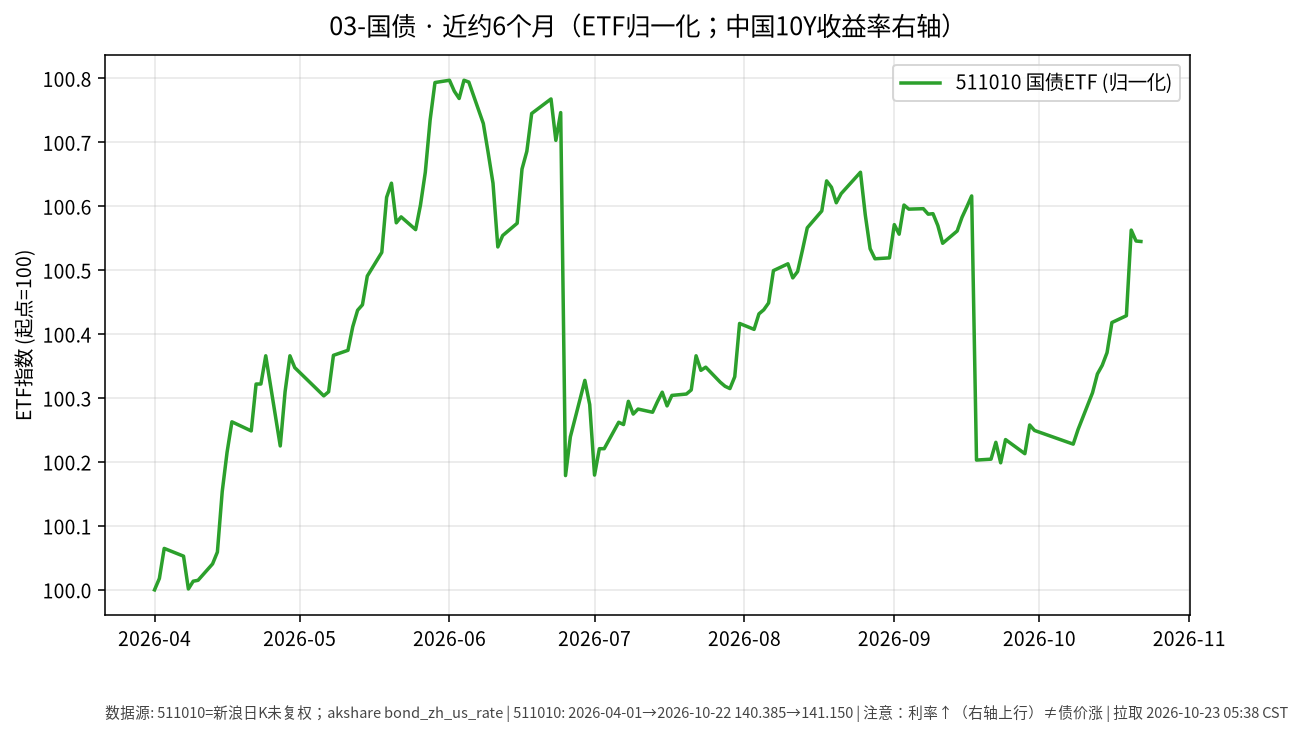
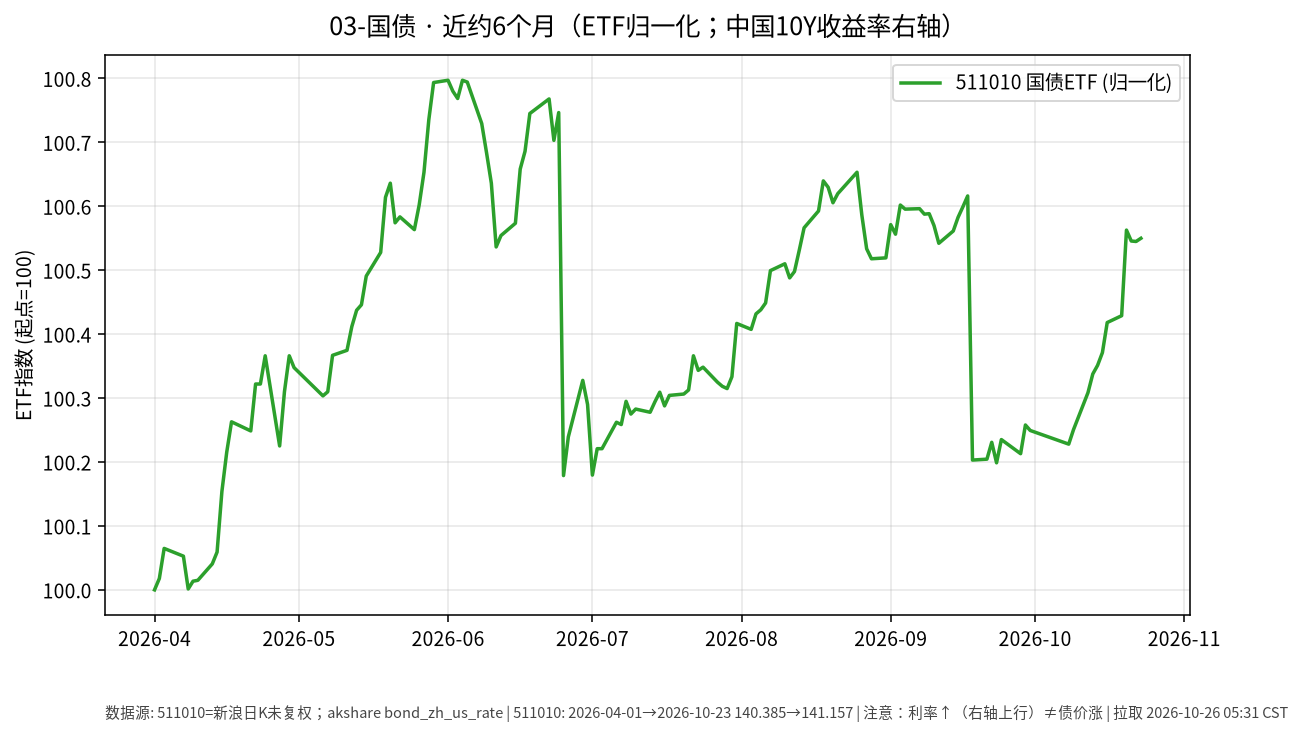
docs: 五门类投资日报 2026-10-26

diff --git a/01-黄金/日报/2026-10-26.md b/01-黄金/日报/2026-10-26.md
@@ -1,0 +1,30 @@
+# 黄金 · 日报 2026-10-26
+
+## 市场状态
+- **报告日**：2026-10-26（周一，Asia/Shanghai 盘前例程）
+- **数据截止交易日**：美股/GLD **2026-10-23**；A 股/沪金 **2026-10-23**（周五；10-24/25 为周末，周一盘前取上一交易日）。
+- GLD 收盘 **366.61**，较前一交易日 **-0.65%**（历史至 10-22 为 yfinance；10-23 收盘由新浪美股即时行情 `gb_gld` 补齐）。
+- 沪金 AU9999：**2026-10-23** 收盘 **864.00** 元/克（**-1.85%**）；黄金 ETF 518880 收 **8.199**（**-1.93%**）。
+
+## 关键数据
+| 标的 | 最近收盘日 | 收盘 | 日涨跌 | 近约6个月（归一起点日） | 区间涨跌 |
+|------|------------|------|--------|-------------------------|----------|
+| GLD | 2026-10-23 | 366.61 | -0.65% | 2026-04-23→2026-10-23 | -14.95% |
+| 518880 黄金ETF | 2026-10-23 | 8.199 | -1.93% | 2026-04-23→2026-10-23 | -17.18% |
+| AU9999（沪金） | 2026-10-23 | 864.00 | -1.85% | 2026-04-23→2026-10-23 | -16.72% |
+
+![近6个月走势](./charts/01-黄金-6m.png)
+
+## 简要解读
+- 美元计价黄金 ETF（GLD）在 **2026-10-23** 继续回落（约 **-0.65%**），境内 518880、沪金 AU9999 同日下行幅度更大（约 **-1.9%** 量级）；近约半年归一后约 **-15.0%～-17.2%**。
+- 价格变动同时受美元、实际利率与风险情绪影响；本页只描述已发生报价，不推断下一步方向。
+
+## 关注点与风险
+- 汇率：境内投资者若以人民币计量，还需叠加美元兑人民币变动，账面涨跌可能与 GLD 美元涨跌不一致。
+- 波动：黄金阶段性回撤后波动仍可能放大；ETF 净值/溢价、交易时段与现货不完全同步。
+- 数据完整性：GLD 完整 Yahoo 日 K 当日被限流，10-23 收盘用新浪美股行情补点；518880 与 SGE Au99.99 为完整日 K。图中三条归一曲线均已叠加。
+
+## 来源与时间
+- GLD：yfinance 历史（至 2026-10-22）+ 新浪 hq `gb_gld`（2026-10-23 收盘 366.61）；拉取约 2026-10-26 05:32 Asia/Shanghai
+- 518880：新浪日 K；AU9999：上海金交所 Dailyhq
+- 图表：Python matplotlib，收盘价归一到起点=100（图窗自 2026-04-01 起）

diff --git a/03-国债/日报/2026-10-26.md b/03-国债/日报/2026-10-26.md
@@ -1,0 +1,29 @@
+# 国债 · 日报 2026-10-26
+
+## 市场状态
+- **报告日**：2026-10-26；**数据截止交易日**：**2026-10-23**。
+- 国债 ETF 511010 收 **141.157**，日涨跌 **+0.005%**（近乎持平）。
+- 中债国债收益率曲线 **10 年期** 2026-10-23 报 **1.6400%**，较上日约 **-0.14 BP**（中国债券信息网公开表；财政部展示页同日约 1.64%、比上日约 -0.14BP）。
+- **提醒**：利率上行（曲线抬升）通常对应既有国债价格承压；图中 ETF 净值涨 ≠ 收益率涨。**利率↑线↑≠债价涨**。
+
+## 关键数据
+| 标的 | 收盘日 | 收盘/收益率 | 日变化 | 约6个月 | 区间 |
+|------|--------|-------------|--------|---------|------|
+| 511010 | 2026-10-23 | 141.157 | +0.005% | 2026-04-23→2026-10-23 | +0.23% |
+| 中债10Y国债收益率 | 2026-10-23 | 1.6400% | 约-0.14 BP | — | 公开曲线单日点 |
+
+![近6个月走势](./charts/03-国债-6m.png)
+
+## 简要解读
+- 511010 近半年归一涨跌约 **+0.23%**，路径相对平缓；2026-10-23 几乎持平，与 10Y 收益率微幅下行（约 -0.14BP）的量级相符。
+- 久期越长，对收益率变化越敏感；本页只记录 ETF 收盘与曲线点位。
+
+## 关注点与风险
+- 利率风险：收益率上行 → 债券市价下行。
+- 通胀预期、货币政策与供需（供给放量等）都会改变曲线形态。
+- 本次未能拉取 10Y 收益率完整日序入图（akshare 不可用），故图中未叠加收益率轴，仅在正文引用单日点位。
+
+## 来源与时间
+- 511010：新浪日 K；截止 2026-10-23
+- 收益率：yield.chinabond.com.cn 公开表（2026-10-23，10Y=1.6400%）；财政部 czb 展示页同日约 -0.14BP
+- 图表：matplotlib，ETF 收盘归一=100

diff --git a/05-高股息/日报/2026-10-26.md b/05-高股息/日报/2026-10-26.md
@@ -1,0 +1,30 @@
+# 高股息 · 日报 2026-10-26
+
+## 市场状态
+- **报告日**：2026-10-26；**数据截止交易日**：**2026-10-23**。
+- 红利 ETF 510880 收 **3.310**（**-0.51%**）。
+- 招商银行 600036 收 **41.77**（**-0.12%**）；长江电力 600900 收 **29.45**（**-1.24%**）。
+- 三条序列同日均小幅回落；分红与价格涨跌是两回事（股息率随股价变动）。
+- **价格口径**：本页序列为交易所日 K **未复权**收盘（新浪）。
+
+## 关键数据
+| 标的 | 收盘日 | 收盘 | 日涨跌 | 约6个月 | 区间涨跌 |
+|------|--------|------|--------|---------|----------|
+| 510880 红利ETF | 2026-10-23 | 3.310 | -0.51% | 2026-04-23→2026-10-23 | +0.52% |
+| 600036 招商银行 | 2026-10-23 | 41.77 | -0.12% | 2026-04-23→2026-10-23 | +4.92% |
+| 600900 长江电力 | 2026-10-23 | 29.45 | -1.24% | 2026-04-23→2026-10-23 | +9.28% |
+
+![近6个月走势](./charts/05-高股息-6m.png)
+
+## 简要解读
+- 近半年归一（未复权）：510880 约 **+0.52%**，招行约 **+4.92%**，长电约 **+9.28%**（个股路径强于宽基红利 ETF，不代表未来）。
+- 2026-10-23 三条序列同日下行，属已发生的价格事实。
+
+## 关注点与风险
+- 银行与公用事业对利率、监管、来水/电价等基本面敏感；高股息不保证本金稳定。
+- 510880 成分与权重定期调整；个股与 ETF 走势可显著偏离。
+- 未复权序列在除权除息日会出现跳空，与前复权路径不一致属正常。
+
+## 来源与时间
+- 510880 / 600036 / 600900：新浪 CN_MarketData K 线（未复权）
+- 截止 2026-10-23；图表 matplotlib，起点=100

diff --git a/02-中短债/日报/2026-10-26.md b/02-中短债/日报/2026-10-26.md
@@ -1,0 +1,28 @@
+# 中短债 · 日报 2026-10-26
+
+## 市场状态
+- **报告日**：2026-10-26；**A 股数据截止交易日**：**2026-10-23**（周一盘前，取上周五收盘）。
+- 短融 ETF 511360 收 **114.094**（日涨跌 **+0.001%**）。
+- 159649（国开债 ETF 华安）收 **110.753**（日涨跌 **-0.006%**）。
+- 短端品种单日变动极小；仅作路径对照，非交易建议。
+
+## 关键数据
+| 标的 | 收盘日 | 收盘 | 日涨跌 | 约6个月区间 | 区间涨跌 |
+|------|--------|------|--------|-------------|----------|
+| 511360 短融ETF海富通 | 2026-10-23 | 114.094 | +0.001% | 2026-04-23→2026-10-23 | +0.65% |
+| 159649 国开债ETF华安 | 2026-10-23 | 110.753 | -0.006% | 2026-04-23→2026-10-23 | +1.04% |
+
+![近6个月走势](./charts/02-中短债-6m.png)
+
+## 简要解读
+- 两条曲线近半年均呈缓慢抬升（归一后约 **+0.65%** / **+1.04%**），单日波动接近于零，符合短久期利率品种特征。
+- 159649 跟踪国开债，久期与信用暴露通常高于纯短融；与 511360 并排只为对照路径，不暗示优劣。
+
+## 关注点与风险
+- 利率上行时净值可能回撤（即使票息仍为正）。
+- ETF 折溢价、流动性与跟踪误差；节假日后跳空可能出现。
+- 杠杆与加久期会放大波动——本报告不讨论、不鼓励此类操作。
+
+## 来源与时间
+- 新浪 CN_MarketData 日 K，截止 2026-10-23
+- 图表：matplotlib，起点归一=100；拉取约 2026-10-26 05:32 Asia/Shanghai

diff --git a/04-纯债/日报/2026-10-26.md b/04-纯债/日报/2026-10-26.md
@@ -1,0 +1,28 @@
+# 纯债 · 日报 2026-10-26
+
+## 市场状态
+- **报告日**：2026-10-26；**数据截止交易日**：**2026-10-23**。
+- 城投债 ETF 511220 收 **10.464**（**-0.010%**）。
+- 政金债/债券 ETF 511520 收 **119.609**（**-0.119%**）。
+- 两条曲线单日变动均很小；近半年仍呈缓慢抬升。
+
+## 关键数据
+| 标的 | 收盘日 | 收盘 | 日涨跌 | 约6个月区间 | 区间涨跌 |
+|------|--------|------|--------|-------------|----------|
+| 511220 城投债ETF海富通 | 2026-10-23 | 10.464 | -0.010% | 2026-04-23→2026-10-23 | +1.27% |
+| 511520 政金债ETF富国 | 2026-10-23 | 119.609 | -0.119% | 2026-04-23→2026-10-23 | +2.08% |
+
+![近6个月走势](./charts/04-纯债-6m.png)
+
+## 简要解读
+- 近半年归一：511220 约 **+1.27%**，511520 约 **+2.08%**；2026-10-23 城投近乎持平、政金债小幅回落。
+- 城投债含信用利差暴露，政金债更偏利率；并排对照路径，不评价孰优。
+
+## 关注点与风险
+- 信用利差扩张时，城投/信用类净值回撤可能大于利率债。
+- 利率上行同样压制久期更长的品种。
+- ETF 折溢价与跟踪误差；本报告不讨论杠杆与下沉信用。
+
+## 来源与时间
+- 新浪 CN_MarketData 日 K，截止 2026-10-23
+- 图表：matplotlib，起点归一=100

diff --git a/notes/invest-knowledge-100/今日一点/2026-10-26-day01.md b/notes/invest-knowledge-100/今日一点/2026-10-26-day01.md
@@ -1,0 +1,5 @@
+# 今日一点 · Day 1/100 · 《风险厌恶 ≠ 零风险》
+
+**结论：** 风险厌恶管的不是「价格别晃」，而是「别把不可逆的本金亏掉、别在最难受的时候被迫卖」。
+
+波动本身几乎无法消灭：哪怕短债 ETF，净值也会随利率轻微起伏。你真正要防的两件事更具体——一是信用违约、杠杆爆仓这类**不可逆损失**；二是急用钱时只能在低点割肉的**被迫变现**。债底仓（中短债/国债/纯债）的意义，正是把「可预见的票息路径」放在前面，把波动和流动性错配压下去；等路径清晰了，再谈要不要划一小笔做股票卫星——那是后面的课，不是今天的买卖指令。

diff --git a/notes/invest-knowledge-100/progress.md b/notes/invest-knowledge-100/progress.md
@@ -1,4 +1,4 @@
-next_day: 1
+next_day: 2
 started: 2026-10-26
-last_completed_day: 0
-last_date:
+last_completed_day: 1
+last_date: 2026-10-26
